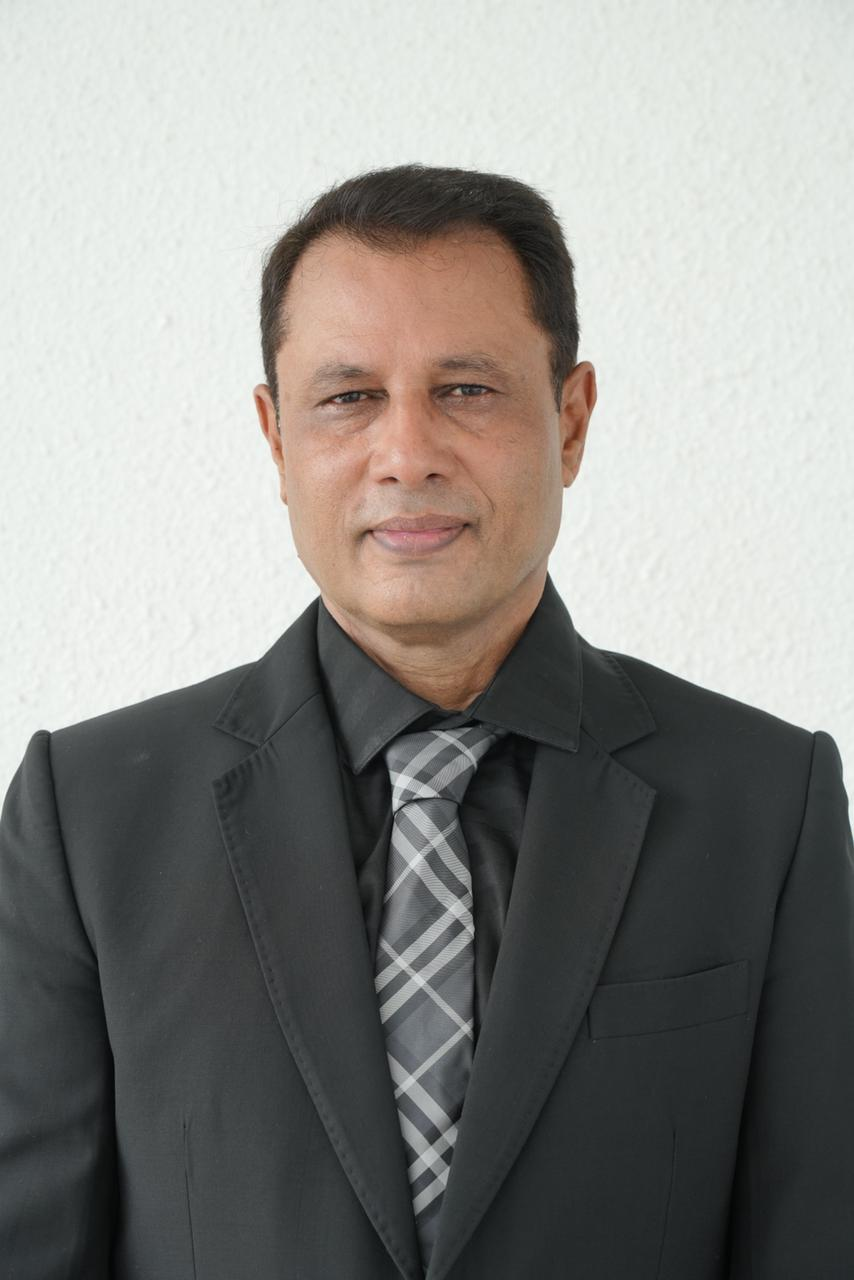
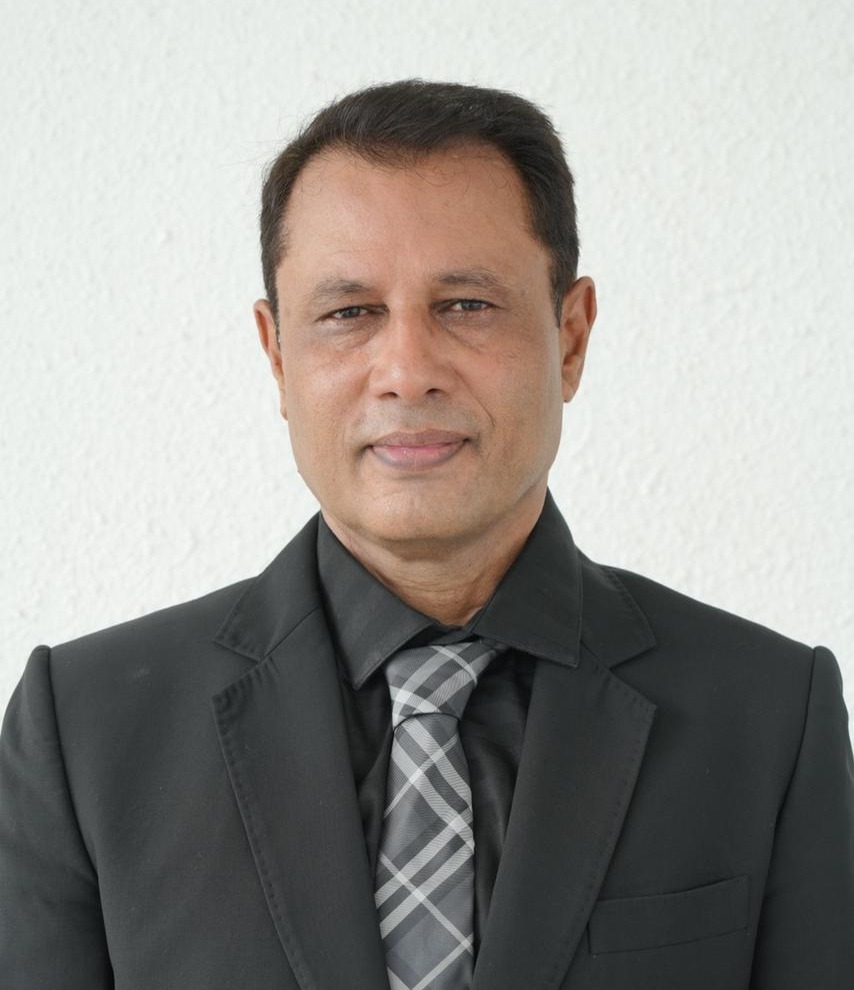
founders photo changes

diff --git a/src/components/pages/AboutContent.tsx b/src/components/pages/AboutContent.tsx
@@ -365,7 +365,7 @@ export function AboutContent() {
             <div className="col-xl-5 col-lg-5 col-md-12">
               <div className="founder-section__img" style={{ width: '100%', display: 'flex', alignItems: 'center', justifyContent: 'center', marginBottom: '40px' }}>
                 <img 
-                  src="/assets/images/board_member/IMG_6190.PNG" 
+                  src="/assets/images/board_member/IMG_6190.jpeg" 
                   alt={t('about.founder.name')} 
                   style={{ 
                     width: '100%', 